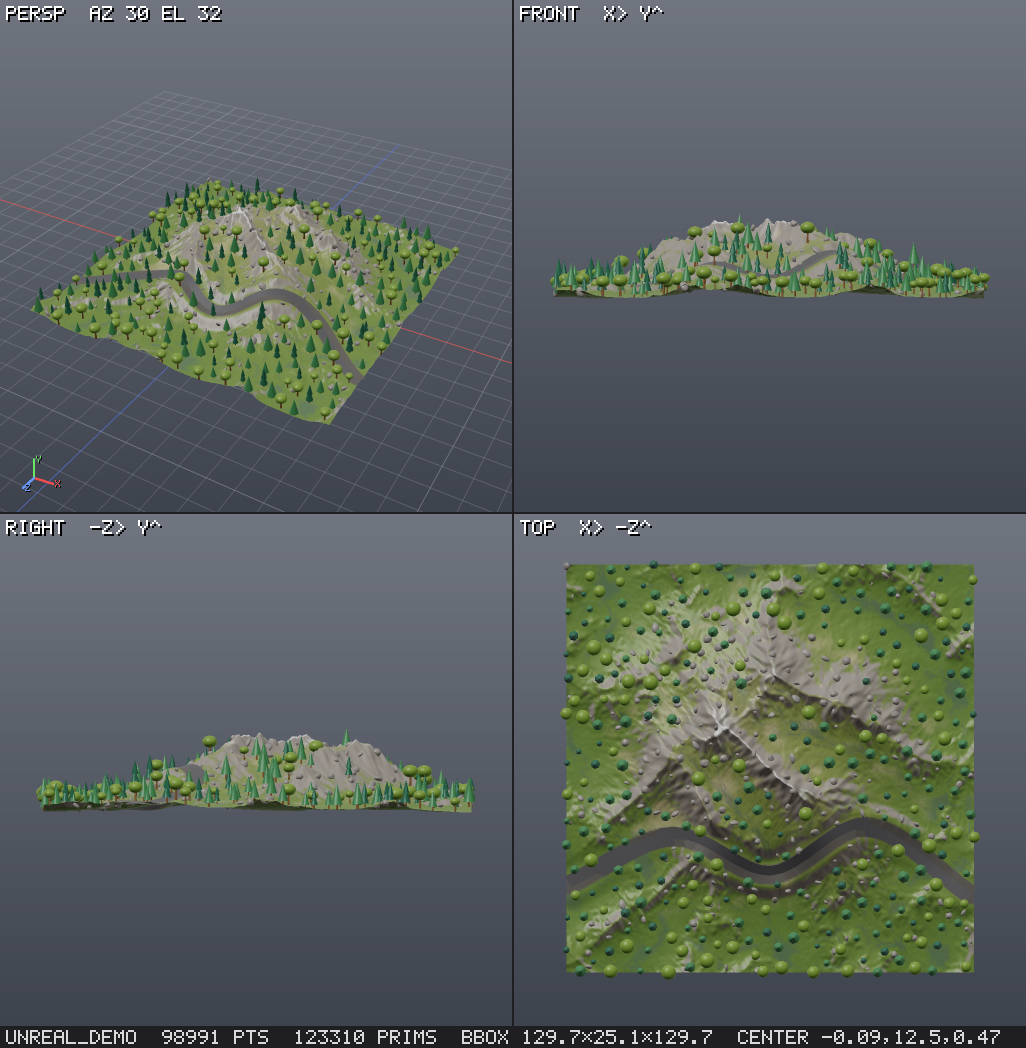
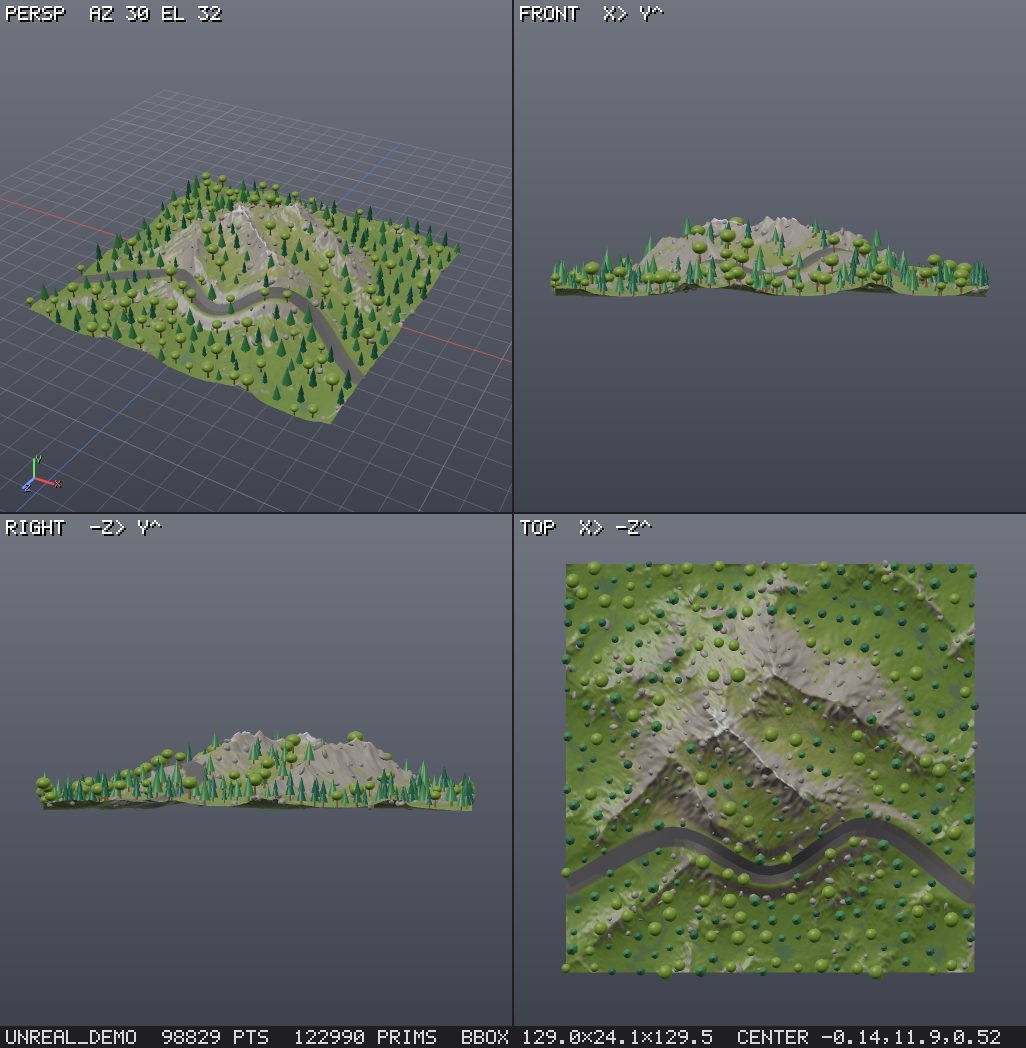
heightfield_erode: droplet settings in metres
The droplet settings counted in samples (erosion_radius, max_lifetime),
per sample (rain_density) and per droplet step, one cell long, so the
same params eroded an 8 m preview of a map very differently from the
2 m map. They are now in metres and converted to the kernels' samples
inside the node:

- rain_density: droplets per m² per iteration (default 2; at most one
  per sample, with a warning).
- erosion_radius: brush radius in metres (default 0.3; at least one
  sample, at most 64 samples, with a warning).
- max_distance (replaces max_lifetime): how far a droplet travels, in
  metres (default 3).
- erosion_rate, deposition_rate, evaporation, inertia, gravity and
  thermal_rate act per droplet step of a third of erosion_radius, and
  sediment_capacity is a volume in those steps cubed. On a cell of r
  steps the fractions compound (1 - (1 - f)^r), gravity scales by r,
  capacity by 1/r³ and the thermal rate by 1/r, so what a droplet
  carries and how far the terrain relaxes stay the same in metres.

core/erosion.ts dropletParams does the conversion; the kernels (TS and
Rust/WASM) are unchanged. At the defaults on 0.1 m cells it gives the
old kernel params bit for bit, so graphs at 0.1 m keep their results:
the heightfield_erode, terrain_erosion and erosion_models goldens are
unchanged, and particles keeps its result with the old settings in
metres (0.6 m, 6 m, 0.5 per m² at 0.2 m cells). unreal_demo uses
erosion_radius 1 m, max_distance 15 m, rain_density 0.08 and
[…]

diff --git a/src/nodes/heightfield.ts b/src/nodes/heightfield.ts
@@ -8,8 +8,8 @@ import {
   Heightfield, MAX_SAMPLES, asHeightfield, bilinear, blurGrid, cropHeightfield, curvesOf, distanceTransform, heightfieldToMesh,
   heightfieldsOf, isHeightfield, layerStats, rasterizeMesh, slopeLayer, smoothstep, splatSegment, transformHeightfield,
 } from '../core/heightfield.ts';
-import { erodeStep, makeErosionField } from '../core/erosion.ts';
-import type { ErosionParams } from '../core/erosion.ts';
+import { dropletParams, erodeStep, makeErosionField } from '../core/erosion.ts';
+import type { DropletSettings } from '../core/erosion.ts';
 import { fractal, makeNoise, makeWarp } from '../core/noise.ts';
 import { rng } from '../core/random.ts';
 import { decodePNG, pngChannel } from '../io/png-decode.ts';
@@ -1024,7 +1024,7 @@ defineNode({
   type: 'heightfield_erode',
   category: 'heightfield',
   summary: 'Droplet or virtual-pipe hydraulic erosion with thermal talus relaxation and optional stream-power incision.',
-  description: 'Houdini: HeightField Erode. The default droplet/js path retains the original seeded droplet model and outputs. Droplets erode below carrying capacity and deposit as they slow or dry; each iteration also relaxes slopes above thermal_talus_angle. Kernel droplet uses the same parameters and layer meanings. Pipe uses four-direction shallow-water flux, velocity-based carrying capacity, sediment transport, rainfall and evaporation, with a CFL-limited timestep; stream_power adds K × drainage^m × slope^n incision. Pipe methods require backend kernel, or auto after the kernels have been loaded. Closed boundaries conserve terrain material. Open boundaries let water leave; droplet also loses carried sediment, while pipe retains sediment and settles it on return. Layers: height, nonnegative deposited sediment and thermal debris (added to existing layers), flow (0..1). Droplet water is a normalised resting-water mask; pipe water is remaining depth in metres. An existing lake layer supplies initial standing water to pipe/stream_power; lake is updated to the same final depth within its original footprint, while water includes every wet sample. Kernel backends also write cumulative wear (eroded depth). Pipe rainfall is uniform and deterministic; its seed is reserved for API consistency. Use flow/sediment/debris with heightfield_mask_by_feature or heightfield_to_mesh color terrain.',
+  description: 'Houdini: HeightField Erode. method droplet (the default; backend js, or kernel for the same model in WASM): seeded droplets erode below their carrying capacity and deposit as they slow or dry; each iteration also relaxes slopes above thermal_talus_angle. Droplet settings are in metres, so the same params erode the same terrain alike at any spacing (an 8 m preview like the 2 m map, finer detail aside): rain_density counts droplets per m² per iteration, max_distance and erosion_radius are metres, and erosion_rate, deposition_rate, evaporation, inertia, gravity and thermal_rate act per droplet step of a third of erosion_radius, with sediment_capacity a volume in those steps cubed; the node converts them to the field\'s cells (a cell of a third of the radius takes them as given: the defaults at 0.1 m). For a terrain λ times larger keep the rest and multiply erosion_radius and max_distance by λ and divide rain_density by λ² (a 4 km map at 2 m: erosion_radius 6, max_distance 60, rain_density 0.005). Erosion is not local: droplets and water cross tile borders and start at seeded positions over the whole field, so a tile with a margin erodes like the same area of the map only statistically. Pipe uses four-direction shallow-water flux, velocity-based carrying capacity, sediment transport, rainfall and evaporation, with a CFL-limited timestep; stream_power adds K × drainage^m × slope^n incision. Pipe methods require backend kernel, or auto after the kernels have been loaded; their rates are per second, and their iterations are time steps that the cell size limits (CFL), so finer fields simulate less time per iteration unless time_step is below the limit of every spacing. Closed boundaries conserve terrain material. Open boundaries let water leave; droplet also loses carried sediment, while pipe retains sediment and settles it on return. Layers: height, nonnegative deposited sediment and thermal debris (added to existing layers), flow (0..1, normalised over the field: droplet on a log scale against its mean and 99th percentile, pipe by its maximum). Droplet water is a normalised resting-water mask; pipe water is remaining depth in metres. An existing lake layer supplies initial standing water to pipe/stream_power; lake is updated to the same final depth within its original footprint, while water includes every wet sample. Kernel backends also write cumulative wear (eroded depth). Pipe rainfall is uniform and deterministic; its seed is reserved for API consistency. Use flow/sediment/debris with heightfield_mask_by_feature or heightfield_to_mesh color terrain.',
   aliases: ['hf_erode', 'erosion', 'heightfield_erosion', 'heightfield_hydro_erode'],
   inputs: [{ name: 'heightfield', desc: 'geometry with a heightfield' }],
   params: {
@@ -1032,19 +1032,19 @@ defineNode({
     backend: { type: 'enum', options: ['auto', 'kernel', 'js'], default: 'js', desc: 'js preserves the original droplet result; kernel loads WASM; auto uses WASM only if already loaded, otherwise js (pipe methods require WASM)' },
     iterations: { type: 'int', default: 50, min: 0, max: 5000, desc: 'rain passes; pipe methods use thermal_interval to schedule thermal passes', aliases: ['iter', 'steps'] },
     seed: P.seed(),
-    erosion_rate: { type: 'float', default: 0.3, min: 0, max: 1, desc: 'fraction of free capacity picked up per droplet step, or erosion rate per second for pipe', aliases: ['erodability', 'erode_rate', 'erosion'] },
-    deposition_rate: { type: 'float', default: 0.3, min: 0, max: 1, desc: 'fraction of excess sediment deposited per droplet step, or deposition rate per second for pipe', aliases: ['deposit_rate', 'deposition'] },
-    sediment_capacity: { type: 'float', default: 1, min: 0, desc: 'how much sediment fast, steep water can carry (higher = deeper gullies, bigger fans)', aliases: ['capacity'] },
-    evaporation: { type: 'float', default: 0.1, min: 0, max: 1, desc: 'water fraction lost per droplet step, or evaporation rate per second for pipe', aliases: ['evaporation_rate'] },
+    erosion_rate: { type: 'float', default: 0.3, min: 0, max: 1, desc: 'droplet: fraction of the free capacity picked up per droplet step (a third of erosion_radius); pipe: erosion rate per second', aliases: ['erodability', 'erode_rate', 'erosion'] },
+    deposition_rate: { type: 'float', default: 0.3, min: 0, max: 1, desc: 'droplet: fraction of the excess sediment dropped per droplet step; pipe: deposition rate per second', aliases: ['deposit_rate', 'deposition'] },
+    sediment_capacity: { type: 'float', default: 1, min: 0, desc: 'how much sediment fast, steep water can carry (higher = deeper gullies, bigger fans); droplet: a volume in droplet steps cubed, the same in metres at any spacing', aliases: ['capacity'] },
+    evaporation: { type: 'float', default: 0.1, min: 0, max: 1, desc: 'droplet: water fraction lost per droplet step; pipe: evaporation rate per second', aliases: ['evaporation_rate'] },
     rain_amount: { type: 'float', default: 1, min: 0, desc: 'water per droplet; pipe rainfall depth in metres per second, multiplied by rain_layer if set', aliases: ['rain', 'water_amount'] },
-    rain_density: { type: 'float', default: 0.02, min: 0, max: 1, desc: 'droplet only: droplets per sample per iteration', aliases: ['droplets'] },
-    inertia: { type: 'float', default: 0.1, min: 0, max: 1, desc: 'droplet only: momentum, 0 = always steepest descent, higher = smoother, longer channels' },
-    gravity: { type: 'float', default: 4, min: 0, desc: 'acceleration on slopes' },
+    rain_density: { type: 'float', default: 2, min: 0, desc: 'droplet only: droplets per square metre per iteration (at most one per sample: coarse fields cap it)', aliases: ['droplets'] },
+    inertia: { type: 'float', default: 0.1, min: 0, max: 1, desc: 'droplet only: share of its heading a droplet keeps per droplet step; 0 = always steepest descent, higher = smoother, longer channels' },
+    gravity: { type: 'float', default: 4, min: 0, desc: 'acceleration on slopes (droplet: speed² gained per droplet step of drop at slope 1; pipe: m/s²)' },
     min_slope: { type: 'float', default: 0.01, min: 0, desc: 'droplet only: minimum capacity (as a slope), keeps flats eroding a little' },
-    erosion_radius: { type: 'int', default: 3, min: 1, max: 8, desc: 'droplet only: erosion footprint radius (samples)', aliases: ['brush_radius'] },
-    max_lifetime: { type: 'int', default: 30, min: 1, max: 256, desc: 'droplet only: maximum steps per particle', aliases: ['lifetime', 'max_steps'] },
+    erosion_radius: { type: 'float', default: 0.3, min: 0.001, desc: 'droplet only: erosion brush radius in metres (about a gully\'s half-width; at least one sample); a third of it is the droplet step the per-step settings refer to', aliases: ['brush_radius'] },
+    max_distance: { type: 'float', default: 3, min: 0, desc: 'droplet only: how far a droplet travels at most (metres; at least one step)', aliases: ['travel_distance', 'droplet_distance'] },
     thermal_talus_angle: { type: 'float', default: 40, min: 0, max: 89, desc: 'thermal: angle of repose in degrees (steeper slopes shed material)', aliases: ['talus_angle', 'repose_angle', 'cut_angle'] },
-    thermal_rate: { type: 'float', default: 0.1, min: 0, max: 1, desc: 'thermal: fraction of the excess moved per thermal pass (0 = no thermal erosion)', aliases: ['thermal'] },
+    thermal_rate: { type: 'float', default: 0.1, min: 0, max: 1, desc: 'thermal: fraction of the excess moved per thermal pass (droplet: on cells of a droplet step, scaled to the spacing; 0 = no thermal erosion)', aliases: ['thermal'] },
     thermal_interval: { type: 'int', default: 1, min: 1, max: 10000, desc: 'pipe/stream_power only: thermal pass every N iterations and on the final iteration; skips intervening relaxations without multiplying thermal_rate (1 preserves the default result)' },
     hardness_layer: { type: 'string', default: '', desc: 'optional 0..1 layer: 1 = rock that does not erode' },
     freeze_layer: { type: 'string', default: '', desc: 'optional 0..1 layer: 1 = frozen (unchanged), e.g. under buildings or roads' },
@@ -1072,20 +1072,27 @@ defineNode({
     let droplets = 0;
     // the time limit of long-running nodes: checked every iteration of the JS path; a big kernel run goes to a pool
     // worker that the limit can stop
-    const budget = simBudget(ctx, 'fewer iterations, a lower rain_density or max_lifetime, or a coarser field (heightfield_resample); or raise the limit');
+    const budget = simBudget(ctx, 'fewer iterations, a lower rain_density or max_distance, or a coarser field (heightfield_resample); or raise the limit');
+    // droplet settings in metres; dropletParams converts them to the kernels' per-sample params for each field's cells
+    const settings: DropletSettings = {
+      rainDensity: p.rain_density, rainAmount: p.rain_amount, erosionRate: p.erosion_rate, depositionRate: p.deposition_rate,
+      sedimentCapacity: p.sediment_capacity, evaporation: p.evaporation, inertia: p.inertia, gravity: p.gravity,
+      minSlope: p.min_slope, erosionRadius: p.erosion_radius, maxDistance: p.max_distance,
+      talusAngle: p.thermal_talus_angle, thermalRate: p.thermal_rate, boundary: p.boundary,
+    };
+    const m = (x: number) => +x.toPrecision(4);
     const out = await eachFieldAsync(ctx, async (hf) => {
       const H = layerOf(hf, 'height', ctx.type);
       const hard = maskOf(hf, p.hardness_layer, ctx.type), frz = maskOf(hf, p.freeze_layer, ctx.type);
+      const { params, limited } = dropletParams(settings, hf.cellSize);
       if (p.method === 'droplet') {
-        const work = hf.count * p.rain_density * p.iterations * p.max_lifetime;
-        if (work > 4e9) throw new NodeError(`${ctx.type}: ~${(work / 1e9).toFixed(1)}G droplet steps is too much; lower iterations, rain_density or max_lifetime, or resample the field`);
+        const c = hf.cellSize, on = `on "${hf.name}" (${m(c)} m cells)`;
+        if (limited.radius) ctx.warn(`erosion_radius ${m(p.erosion_radius)} m is more than 64 samples ${on}: the brush uses 64 samples (${m(64 * c)} m)`);
+        if (limited.steps) ctx.warn(`max_distance ${m(p.max_distance)} m is more than 4096 steps ${on}: droplets stop after ${m(4096 * c)} m`);
+        if (limited.density) ctx.warn(`rain_density ${m(p.rain_density)} per m² is more than one droplet per sample ${on}: using one per sample (${m(1 / (c * c))} per m²)`);
+        const work = hf.count * params.rainDensity * p.iterations * params.maxLifetime;
+        if (work > 4e9) throw new NodeError(`${ctx.type}: ~${(work / 1e9).toFixed(1)}G droplet steps is too much; lower iterations, rain_density or max_distance, or resample the field`);
       }
-      const params: ErosionParams = {
-        rainDensity: p.rain_density, rainAmount: p.rain_amount, erosionRate: p.erosion_rate, depositionRate: p.deposition_rate,
-        sedimentCapacity: p.sediment_capacity, evaporation: p.evaporation, inertia: p.inertia, gravity: p.gravity,
-        minSlope: p.min_slope, erosionRadius: p.erosion_radius, maxLifetime: p.max_lifetime,
-        talusAngle: p.thermal_talus_angle, thermalRate: p.thermal_rate, boundary: p.boundary,
-      };
       if (kernels) {
         const grid = { w: hf.width, h: hf.height, cell: hf.cellSize, seed: p.seed };
         const result: ErosionResult = await wasmCallUnderBudget(ctx, kernels, p.method === 'droplet'
@@ -1114,14 +1121,14 @@ defineNode({
           for (let k = 0; k < lake.length; k++) if (previous[k] > 0) lake[k] = result.water[k];
           hf.layers.set('lake', lake);
         }
-        if (p.method === 'droplet') droplets += Math.round(p.rain_density * hf.count) * p.iterations;
+        if (p.method === 'droplet') droplets += Math.round(params.rainDensity * hf.count) * p.iterations;
         return;
       }
       const field = makeErosionField(hf.width, hf.height, hf.cellSize, H, hard, frz);
       const r = rng(p.seed);
       // a stopped cook stops between iterations
       for (let it = 0; it < p.iterations; it++) { budget.check(); await ctx.checkpoint(); erodeStep(field, params, r); }
-      droplets += Math.round(p.rain_density * hf.count) * p.iterations;
+      droplets += Math.round(params.rainDensity * hf.count) * p.iterations;
       hf.layers.set('height', Float32Array.from(field.h));
       for (const [name, delta] of [['sediment', field.sediment], ['debris', field.debris]] as const) {
         const prev = hf.layer(name), o = new Float32Array(hf.count);

diff --git a/test/heightfield.ts b/test/heightfield.ts
@@ -10,7 +10,7 @@ import { Engine } from '../src/graph/engine.ts';
 import { createNodeHost } from '../src/host/node.ts';
 import { Geometry } from '../src/core/geometry.ts';
 import { Heightfield, blurGrid, distanceTransform, heightfieldsOf } from '../src/core/heightfield.ts';
-import { DEFAULT_EROSION, erodeStep, makeErosionField } from '../src/core/erosion.ts';
+import { DEFAULT_EROSION, dropletParams, erodeStep, makeErosionField } from '../src/core/erosion.ts';
 import { fractal, makeNoise, makeWarp } from '../src/core/noise.ts';
 import { rng } from '../src/core/random.ts';
 import { decodePNG, inflateZlib, pngChannel } from '../src/io/png-decode.ts';
@@ -412,6 +412,53 @@ section('erosion');
   check(frozenOk, 'freeze_layer: frozen samples are never eroded');
   const hard = await field({ ...rough, f: { type: 'heightfield_layer', in: ['n'], params: { layer: 'rock', operation: 'fill', value: 1 } }, e: { type: 'heightfield_erode', in: ['f'], params: { iterations: 10, hardness_layer: 'rock', thermal_rate: 0 } } }, 'e');
   check(sum(hard.layer('sediment')!) < sum((await run({ iterations: 10, thermal_rate: 0 })).layer('sediment')!) * 0.2, 'hardness 1 stops hydraulic erosion');
+
+  // droplet settings are in metres: dropletParams turns them into the kernels' per-sample params
+  const metres = { rainDensity: 2, rainAmount: 1, erosionRate: 0.3, depositionRate: 0.3, sedimentCapacity: 1, evaporation: 0.1, inertia: 0.1, gravity: 4, minSlope: 0.01, erosionRadius: 0.3, maxDistance: 3, talusAngle: 40, thermalRate: 0.1, boundary: 'closed' as const };
+  const at01 = dropletParams(metres, 0.1).params;
+  check(Object.entries(DEFAULT_EROSION).every(([k, v]) => k === 'rainDensity' ? Math.abs(at01.rainDensity - v) < 1e-15 : (at01 as any)[k] === v), 'the default settings in metres at 0.1 m cells are the kernel defaults (3-sample brush, 30 steps, 0.02 droplets per sample) bit for bit');
+  const at04 = dropletParams(metres, 0.4).params;
+  check(at04.erosionRadius === 1 && at04.maxLifetime === 8 && Math.abs(at04.rainDensity - 0.32) < 1e-12 && Math.abs(at04.erosionRate - (1 - 0.7 ** 4)) < 1e-12 && Math.abs(at04.sedimentCapacity - 1 / 64) < 1e-12 && at04.gravity === 16 && Math.abs(at04.thermalRate - 0.025) < 1e-12,
+    'at 0.4 m cells (four droplet steps per cell): brush one sample, 8 steps, 0.32 droplets per sample, per-step fractions compounded, capacity ÷ 64, gravity × 4, thermal rate ÷ 4');
+  const capped = dropletParams({ ...metres, rainDensity: 1000, erosionRadius: 30, maxDistance: 1000 }, 0.1);
+  check(capped.params.rainDensity === 1 && capped.params.erosionRadius === 64 && capped.params.maxLifetime === 4096 && capped.limited.density === 1 && capped.limited.radius === 64 && capped.limited.steps === 4096, 'kernel limits: one droplet per sample, a 64-sample brush, 4096 steps (reported)');
+  const dense = await engine.cook({ nodes: { hf: { type: 'heightfield', params: { size: [8, 8], resolution: 0.5 } }, n: { type: 'heightfield_noise', in: ['hf'], params: { amplitude: 1 } }, e: { type: 'heightfield_erode', in: ['n'], params: { iterations: 2, rain_density: 10 } } }, output: 'e' });
+  check(dense.ok && dense.warnings.some((w) => /rain_density 10 per m² is more than one droplet per sample .*using one per sample \(4 per m²\)/.test(w.message)), 'a rain_density above one droplet per sample warns and uses one per sample');
+
+  // the same terrain at 0.4, 0.2 and 0.1 m spacing erodes alike. Statistics: eroded volume per m², and gully depth as
+  // the 99th percentile of the lowering on the coarse 0.4 m grid (finer results averaged over each coarse cell). Why
+  // the tolerances: a coarser grid cannot resolve the terrain's smallest slopes, so it erodes a little less; its
+  // deposits spread over 2 × 2 of its cells and its brush cannot be narrower than one cell (0.4 m against 0.3 m); its
+  // droplets start at other random positions. Measured: about 5 % apart at twice the spacing, 10–20 % at four times;
+  // the old per-sample settings (the defaults read as 3 samples, 30 steps, 0.02 droplets per sample) erode twice as
+  // much at 0.4 m.
+  const TERRAIN = (resolution: number): Record<string, NodeSpec> => ({
+    hf: { type: 'heightfield', params: { size: [25.6, 25.6], resolution } },
+    massif: { type: 'heightfield_layer', in: ['hf'], params: { expression: '2.2 * (1 - smoothstep(1, 11, sqrt(x * x + z * z)))' } },
+    ridges: { type: 'heightfield_noise', in: ['massif'], params: { fractal: 'ridged', amplitude: 2.4, element_size: 8, octaves: 4, range: 'positive', seed: 11 } },
+    detail: { type: 'heightfield_noise', in: ['ridges'], params: { amplitude: 0.35, element_size: 2.5, octaves: 2, seed: 5 } },
+    ground: { type: 'heightfield_layer', in: ['detail'], params: { expression: 'height * (0.35 + 0.65 * (1 - smoothstep(3, 10.5, sqrt(x * x + z * z))))' } },
+  });
+  const erosionStats = async (resolution: number, params: Record<string, any> = {}) => {
+    const nodes = { ...TERRAIN(resolution), e: { type: 'heightfield_erode', in: ['ground'], params: { iterations: 40, seed: 1, ...params } } };
+    const before = await field(nodes, 'ground'), after = await field(nodes, 'e');
+    const n = before.width, c = before.cellSize, h0 = before.layer('height')!, h1 = after.layer('height')!;
+    const depth = Float64Array.from(h0, (v, k) => v - h1[k]);
+    let eroded = 0;
+    for (const d of depth) if (d > 0) eroded += d;
+    const ratio = 0.4 / c, avg = ratio > 1 ? blurGrid(depth, n, n, ratio / 2, 'box') : depth, coarse: number[] = [];
+    for (let j = 0; j <= 64; j++) for (let i = 0; i <= 64; i++) coarse.push(avg[Math.round(j * ratio) * n + Math.round(i * ratio)]);
+    coarse.sort((a, b) => a - b);
+    return { volume: (eroded * c * c) / (25.6 * 25.6), gully: coarse[Math.floor(0.99 * coarse.length)] };
+  };
+  const s1 = await erosionStats(0.1), s2 = await erosionStats(0.2), s4 = await erosionStats(0.4);
+  const old4 = await erosionStats(0.4, { erosion_radius: 1.2, max_distance: 12, rain_density: 0.125 });
+  const pct = (a: number, b: number) => `${a / b >= 1 ? '+' : ''}${((a / b - 1) * 100).toFixed(0)} %`;
+  console.log(`     eroded volume per m²: ${s1.volume.toFixed(4)} m at 0.1 m, ${s2.volume.toFixed(4)} at 0.2 m, ${s4.volume.toFixed(4)} at 0.4 m (old per-sample settings at 0.4 m: ${old4.volume.toFixed(4)}); gully depth ${s1.gully.toFixed(3)}, ${s2.gully.toFixed(3)}, ${s4.gully.toFixed(3)} m (old ${old4.gully.toFixed(3)})`);
+  const within = (a: number, b: number, t: number) => a / b > 1 - t && a / b < 1 + t;
+  check(within(s2.volume, s1.volume, 0.15) && within(s2.gully, s1.gully, 0.15), `the same settings at 0.2 and 0.1 m erode alike within 15 % (volume ${pct(s2.volume, s1.volume)}, gully depth ${pct(s2.gully, s1.gully)})`);
+  check(within(s4.volume, s1.volume, 0.3) && within(s4.gully, s1.gully, 0.3), `… at 0.4 and 0.1 m within 30 % (volume ${pct(s4.volume, s1.volume)}, gully depth ${pct(s4.gully, s1.gully)})`);
+  check(old4.volume / s1.volume > 1.6 && old4.gully / s1.gully > 1.6, `the old per-sample settings did not: at 0.4 m they erode ${pct(old4.volume, s1.volume)} volume, gullies ${pct(old4.gully, s1.gully)}`);
 
   // the kernel interface directly, and its speed target: 512² × 100 iterations
   const N = 512, cell = 0.1;

diff --git a/src/core/erosion.ts b/src/core/erosion.ts
@@ -11,7 +11,8 @@
 // One iteration = erodeStep(field, params, rng): a rain pass of rain_density × samples droplets, then one thermal
 // pass. It reads and writes plain typed arrays only, so a native/WASM kernel can replace it: same arrays in, the
 // same arrays updated in place, the same parameter meanings (see ErosionField / ErosionParams). The rng is only
-// used to draw droplet start positions and the tile order.
+// used to draw droplet start positions and the tile order. ErosionParams count in samples (a droplet moves one cell
+// per step); dropletParams converts heightfield_erode's settings in metres to them for a field's cell size.
 //
 // Performance: the droplet pass is bound by memory latency, so droplets run tile by tile (32 × 32 samples, tiles
 // in a random order per pass) and the net change is recorded once per pass instead of per write. The thermal pass
@@ -77,6 +78,62 @@ export const DEFAULT_EROSION: ErosionParams = {
   inertia: 0.1, gravity: 4, minSlope: 0.01, erosionRadius: 3, maxLifetime: 30, talusAngle: 40, thermalRate: 0.1,
   boundary: 'closed',
 };
+
+// ---------------------------------------------------------------- settings in metres
+
+/**
+ * Droplet erosion settings in world units (heightfield_erode's params): rain per square metre, lengths in metres, and
+ * per-step settings defined for a droplet step of erosionRadius / 3 metres. dropletParams turns them into the
+ * per-sample ErosionParams the kernels take for one cell size.
+ */
+export interface DropletSettings extends Omit<ErosionParams, 'rainDensity' | 'erosionRadius' | 'maxLifetime'> {
+  /** droplets per square metre per iteration */
+  rainDensity: number;
+  /** erosion brush radius in metres; a third of it is the droplet step the per-step settings refer to */
+  erosionRadius: number;
+  /** the farthest a droplet travels, in metres */
+  maxDistance: number;
+}
+
+/** The kernel limits dropletParams applied, each with the value it used (in samples). */
+export interface DropletLimits { radius?: number; steps?: number; density?: number }
+
+/**
+ * The per-sample ErosionParams that erode like `s` on a field with cells of `cell` metres, so the same settings give
+ * the same erosion in metres at any spacing (within what the coarser grid can resolve).
+ *
+ * The kernels move a droplet one cell per step and count in samples. The settings are defined for steps of
+ * step = erosionRadius / 3 metres (the default radius of three cells runs them as given), and a cell of `cell` metres
+ * is r = cell / step of those steps: the per-step fractions compound (f → 1 − (1 − f)^r, inertia i → i^r), the speed²
+ * gained on a slope grows with the drop (gravity × r), the sediment a droplet carries keeps its volume in metres
+ * (sediment capacity is a volume in cells³: ÷ r³), and a thermal pass moves the same height per iteration (rate ÷ r,
+ * at most 1). Counts become samples: the brush erosionRadius / cell samples (1..64), maxDistance / cell steps
+ * (1..4096) and rainDensity × cell² droplets per sample (at most 1); `limited` reports the limits that applied.
+ * Ratios within 1e-9 of a whole number are that number, so the defaults at 0.1 m cells give the kernel defaults bit
+ * for bit.
+ */
+export function dropletParams(s: DropletSettings, cell: number): { params: ErosionParams; limited: DropletLimits } {
+  const snap = (x: number) => (Math.abs(x - Math.round(x)) < 1e-9 ? Math.round(x) : x);
+  const unit = (x: number) => Math.min(1, Math.max(0, x));
+  const r = snap(cell / (s.erosionRadius / 3));
+  const perStep = (f: number) => (r === 1 ? f : 1 - Math.pow(1 - unit(f), r));
+  const limited: DropletLimits = {};
+  let radius = Math.max(1, snap(s.erosionRadius / cell));
+  if (radius > 64) radius = limited.radius = 64;
+  let steps = Math.max(1, Math.round(s.maxDistance / cell));
+  if (steps > 4096) steps = limited.steps = 4096;
+  let density = s.rainDensity * cell * cell;
+  if (density > 1) density = limited.density = 1;
+  const params: ErosionParams = {
+    rainDensity: density, rainAmount: s.rainAmount,
+    erosionRate: perStep(s.erosionRate), depositionRate: perStep(s.depositionRate), evaporation: perStep(s.evaporation),
+    sedimentCapacity: Math.min(1e6, s.sedimentCapacity / (r * r * r)),
+    inertia: r === 1 ? s.inertia : Math.pow(unit(s.inertia), r),
+    gravity: Math.min(1e6, s.gravity * r), minSlope: s.minSlope, erosionRadius: radius, maxLifetime: steps,
+    talusAngle: s.talusAngle, thermalRate: Math.min(1, s.thermalRate / r), boundary: s.boundary,
+  };
+  return { params, limited };
+}
 
 /** A fresh field for erosion with zeroed accumulators (heights are copied). */
 export function makeErosionField(width: number, height: number, cellSize: number, h: ArrayLike<number>, hardness: Float32Array | null = null, freeze: Float32Array | null = null): ErosionField {

diff --git a/src/mcp/docs.ts b/src/mcp/docs.ts
@@ -437,13 +437,21 @@ TILES: a big map (4 × 4 km at 2 m = 2001² samples) is previewed and processed 
 MASKS: every mask node combines with the existing mask (mode replace/add/subtract/multiply/max/min): chain them,
   multiply = and, max = or. Most layer nodes take mask_layer to blend their effect by a mask.
   e.g. rocks on steep slopes off the road: mask_by_feature slope 33° → heightfield_layer {layer:"mask", expression:"mask * (1 - path)"}.
-EROSION: droplets (rain_density per sample per iteration, rain_amount, erosion_rate, deposition_rate, sediment_capacity,
-  evaporation, inertia, gravity, max_lifetime) + thermal (thermal_talus_angle, thermal_rate); hardness_layer (1 = rock),
-  freeze_layer (1 = untouched); boundary closed conserves material. Deterministic per seed. Cost ≈ samples ×
-  rain_density × iterations × 30 steps (512² × 100 iterations ≈ 2–3 s). Stronger: more iterations or sediment_capacity.
+EROSION: droplets in metres, so the same params erode alike at any spacing (an 8 m preview like the 2 m map, finer
+  detail aside): rain_density droplets per m² per iteration, max_distance metres a droplet travels, erosion_radius the
+  brush radius in metres (about a gully's half-width). erosion_rate, deposition_rate, evaporation, inertia, gravity and
+  thermal_rate act per droplet step of erosion_radius / 3 and sediment_capacity is a volume in those steps cubed; the
+  node converts them to the field's cells (cells of erosion_radius / 3 take them as given: the defaults at 0.1 m).
+  Scale: for a terrain λ times larger multiply erosion_radius and max_distance by λ and divide rain_density by λ², the
+  rest unchanged (a 4 km map at 2 m: erosion_radius 6, max_distance 60, rain_density 0.005). Thermal:
+  thermal_talus_angle, thermal_rate; hardness_layer (1 = rock), freeze_layer (1 = untouched); boundary closed conserves
+  material. Deterministic per seed. Cost ≈ rain_density × area × iterations × max_distance / cell droplet steps
+  (512² × 100 iterations at the defaults ≈ 2–3 s). Stronger: more iterations, rain_density or sediment_capacity. Not
+  local: a tile erodes like the same area of the map only statistically (see TILES).
   method droplet / backend js is the unchanged default. backend kernel loads WASM; auto uses an already loaded
   kernel or falls back to js. method pipe and stream_power require the kernel. Pipe uses virtual pipes, CFL-limited
-  time_step (0 = automatic), rain_amount in metres/second, optional rain_layer multiplier, evaporation and thermal
+  time_step (0 = automatic, shorter on finer cells; a time_step below the limit of every spacing simulates the same
+  time per iteration), rain_amount in metres/second, optional rain_layer multiplier, evaporation and thermal
   talus relaxation. stream_power adds stream_power_k * drainage^stream_power_m * slope^stream_power_n incision.
   Kernel erosion also writes wear (cumulative eroded depth); pipe water is remaining water depth in metres.
   heightfield_flow {method:"dinf", log_scale:true} writes drainage and direction without erosion: drainage is

diff --git a/docs/nodes.md b/docs/nodes.md
@@ -7167,7 +7167,7 @@ category: `heightfield` · aliases: `hf_erode`, `erosion`, `heightfield_erosion`
 
 Droplet or virtual-pipe hydraulic erosion with thermal talus relaxation and optional stream-power incision.
 
-Houdini: HeightField Erode. The default droplet/js path retains the original seeded droplet model and outputs. Droplets erode below carrying capacity and deposit as they slow or dry; each iteration also relaxes slopes above thermal_talus_angle. Kernel droplet uses the same parameters and layer meanings. Pipe uses four-direction shallow-water flux, velocity-based carrying capacity, sediment transport, rainfall and evaporation, with a CFL-limited timestep; stream_power adds K × drainage^m × slope^n incision. Pipe methods require backend kernel, or auto after the kernels have been loaded. Closed boundaries conserve terrain material. Open boundaries let water leave; droplet also loses carried sediment, while pipe retains sediment and settles it on return. Layers: height, nonnegative deposited sediment and thermal debris (added to existing layers), flow (0..1). Droplet water is a normalised resting-water mask; pipe water is remaining depth in metres. An existing lake layer supplies initial standing water to pipe/stream_power; lake is updated to the same final depth within its original footprint, while water includes every wet sample. Kernel backends also write cumulative wear (eroded depth). Pipe rainfall is uniform and deterministic; its seed is reserved for API consistency. Use flow/sediment/debris with heightfield_mask_by_feature or heightfield_to_mesh color terrain.
+Houdini: HeightField Erode. method droplet (the default; backend js, or kernel for the same model in WASM): seeded droplets erode below their carrying capacity and deposit as they slow or dry; each iteration also relaxes slopes above thermal_talus_angle. Droplet settings are in metres, so the same params erode the same terrain alike at any spacing (an 8 m preview like the 2 m map, finer detail aside): rain_density counts droplets per m² per iteration, max_distance and erosion_radius are metres, and erosion_rate, deposition_rate, evaporation, inertia, gravity and thermal_rate act per droplet step of a third of erosion_radius, with sediment_capacity a volume in those steps cubed; the node converts them to the field's cells (a cell of a third of the radius takes them as given: the defaults at 0.1 m). For a terrain λ times larger keep the rest and multiply erosion_radius and max_distance by λ and divide rain_density by λ² (a 4 km map at 2 m: erosion_radius 6, max_distance 60, rain_density 0.005). Erosion is not local: droplets and water cross tile borders and start at seeded positions over the whole field, so a tile with a margin erodes like the same area of the map only statistically. Pipe uses four-direction shallow-water flux, velocity-based carrying capacity, sediment transport, rainfall and evaporation, with a CFL-limited timestep; stream_power adds K × drainage^m × slope^n incision. Pipe methods require backend kernel, or auto after the kernels have been loaded; their rates are per second, and their iterations are time steps that the cell size limits (CFL), so finer fields simulate less time per iteration unless time_step is below the limit of every spacing. Closed boundaries conserve terrain material. Open boundaries let water leave; droplet also loses carried sediment, while pipe retains sediment and settles it on return. Layers: height, nonnegative deposited sediment and thermal debris (added to existing layers), flow (0..1, normalised over the field: droplet on a log scale against its mean and 99th percentile, pipe by its maximum). Droplet water is a normalised resting-water mask; pipe water is remaining depth in metres. An existing lake layer supplies initial standing water to pipe/stream_power; lake is updated to the same final depth within its original footprint, while water includes every wet sample. Kernel backends also write cumulative wear (eroded depth). Pipe rainfall is uniform and deterministic; its seed is reserved for API consistency. Use flow/sediment/debris with heightfield_mask_by_feature or heightfield_to_mesh color terrain.
 
 **Inputs**
 
@@ -7183,19 +7183,19 @@ Houdini: HeightField Erode. The default droplet/js path retains the original see
 | `backend` | enum | `"js"` |  | `auto`, `kernel`, `js` |  | js preserves the original droplet result; kernel loads WASM; auto uses WASM only if already loaded, otherwise js (pipe methods require WASM) |
 | `iterations` | int | `50` | 0..5000 |  | `iter`, `steps` | rain passes; pipe methods use thermal_interval to schedule thermal passes |
 | `seed` | float | `0` |  |  |  | random seed |
-| `erosion_rate` | float | `0.3` | 0..1 |  | `erodability`, `erode_rate`, `erosion` | fraction of free capacity picked up per droplet step, or erosion rate per second for pipe |
-| `deposition_rate` | float | `0.3` | 0..1 |  | `deposit_rate`, `deposition` | fraction of excess sediment deposited per droplet step, or deposition rate per second for pipe |
-| `sediment_capacity` | float | `1` | 0.. |  | `capacity` | how much sediment fast, steep water can carry (higher = deeper gullies, bigger fans) |
-| `evaporation` | float | `0.1` | 0..1 |  | `evaporation_rate` | water fraction lost per droplet step, or evaporation rate per second for pipe |
+| `erosion_rate` | float | `0.3` | 0..1 |  | `erodability`, `erode_rate`, `erosion` | droplet: fraction of the free capacity picked up per droplet step (a third of erosion_radius); pipe: erosion rate per second |
+| `deposition_rate` | float | `0.3` | 0..1 |  | `deposit_rate`, `deposition` | droplet: fraction of the excess sediment dropped per droplet step; pipe: deposition rate per second |
+| `sediment_capacity` | float | `1` | 0.. |  | `capacity` | how much sediment fast, steep water can carry (higher = deeper gullies, bigger fans); droplet: a volume in droplet steps cubed, the same in metres at any spacing |
+| `evaporation` | float | `0.1` | 0..1 |  | `evaporation_rate` | droplet: water fraction lost per droplet step; pipe: evaporation rate per second |
 | `rain_amount` | float | `1` | 0.. |  | `rain`, `water_amount` | water per droplet; pipe rainfall depth in metres per second, multiplied by rain_layer if set |
-| `rain_density` | float | `0.02` | 0..1 |  | `droplets` | droplet only: droplets per sample per iteration |
-| `inertia` | float | `0.1` | 0..1 |  |  | droplet only: momentum, 0 = always steepest descent, higher = smoother, longer channels |
-| `gravity` | float | `4` | 0.. |  |  | acceleration on slopes |
+| `rain_density` | float | `2` | 0.. |  | `droplets` | droplet only: droplets per square metre per iteration (at most one per sample: coarse fields cap it) |
+| `inertia` | float | `0.1` | 0..1 |  |  | droplet only: share of its heading a droplet keeps per droplet step; 0 = always steepest descent, higher = smoother, longer channels |
+| `gravity` | float | `4` | 0.. |  |  | acceleration on slopes (droplet: speed² gained per droplet step of drop at slope 1; pipe: m/s²) |
 | `min_slope` | float | `0.01` | 0.. |  |  | droplet only: minimum capacity (as a slope), keeps flats eroding a little |
-| `erosion_radius` | int | `3` | 1..8 |  | `brush_radius` | droplet only: erosion footprint radius (samples) |
-| `max_lifetime` | int | `30` | 1..256 |  | `lifetime`, `max_steps` | droplet only: maximum steps per particle |
+| `erosion_radius` | float | `0.3` | 0.001.. |  | `brush_radius` | droplet only: erosion brush radius in metres (about a gully's half-width; at least one sample); a third of it is the droplet step the per-step settings refer to |
+| `max_distance` | float | `3` | 0.. |  | `travel_distance`, `droplet_distance` | droplet only: how far a droplet travels at most (metres; at least one step) |
 | `thermal_talus_angle` | float | `40` | 0..89 |  | `talus_angle`, `repose_angle`, `cut_angle` | thermal: angle of repose in degrees (steeper slopes shed material) |
-| `thermal_rate` | float | `0.1` | 0..1 |  | `thermal` | thermal: fraction of the excess moved per thermal pass (0 = no thermal erosion) |
+| `thermal_rate` | float | `0.1` | 0..1 |  | `thermal` | thermal: fraction of the excess moved per thermal pass (droplet: on cells of a droplet step, scaled to the spacing; 0 = no thermal erosion) |
 | `thermal_interval` | int | `1` | 1..10000 |  |  | pipe/stream_power only: thermal pass every N iterations and on the final iteration; skips intervening relaxations without multiplying thermal_rate (1 preserves the default result) |
 | `hardness_layer` | string | `""` |  |  |  | optional 0..1 layer: 1 = rock that does not erode |
 | `freeze_layer` | string | `""` |  |  |  | optional 0..1 layer: 1 = frozen (unchanged), e.g. under buildings or roads |

diff --git a/README.md b/README.md
@@ -445,7 +445,7 @@ below; `node test/shelf.ts` cooks every asset at its defaults and at the ends of
 | mcp | `node test/mcp.ts` | the MCP server end to end over stdio |
 | arrays | `node test/arrays.ts` | array attributes: storage, merge and builder rules, wrangle `f[]@`/`i[]@`/`s[]@` and helpers, `attrib_array`, JSON, inspect, fingerprints, every node type fed array attributes |
 | packed | `node test/packed.ts` | packed prims: model (clone, subsets, merge dedup, builder, bbox), pack/unpack round trips, packed copies equal real copies, transforms, auto-unpack, JSON/GLB/USD, render budget, every node type fed instances |
-| heightfield | `node test/heightfield.ts` | heightfields: the volume model, every heightfield node's behaviour (round trips, masks, crops and tiles that match the whole map, erosion determinism and mass conservation, roads, scattering), the erosion speed target (512² × 100 iterations), png16/r16/mask_png export through the PNG decoder, render/inspect hooks, MCP export |
+| heightfield | `node test/heightfield.ts` | heightfields: the volume model, every heightfield node's behaviour (round trips, masks, crops and tiles that match the whole map, erosion determinism and mass conservation, the same erosion settings at three spacings, roads, scattering), the erosion speed target (512² × 100 iterations), png16/r16/mask_png export through the PNG decoder, render/inspect hooks, MCP export |
 | pcg | `npm run test:pcg` | scatter v2 (density counts, density attribute and mask ratios, relaxation, exact min_distance, per-prim cap, emitted attributes, prim uv, seeds, legacy defaults), every mask feature and combine mode, attribute_from_map on generated 8/16-bit and RGB PNGs (projections, filters, wrap, file stamp), orient modes against surface normals and copy_to_points, points_along_curve arc spacing, cluster k-means/radius, prune overlap/density/expression/near geometry, copy_to_points variant weights and packed = real copies |
 | splines | `npm run test:splines` | Bezier against its closed form, a rational NURBS circle, de Boor = de Casteljau, arc length, closest point, exact Bezier ⇄ NURBS conversions, interpolation and fitting; spline prims through clone/merge/subsets/JSON; auto-conversion and its warning; every spline node's behaviour (fillet arcs, constant 3D offset along a helix, projection onto a plane and a heightfield, monotonic curveu); render and export; every node type fed spline prims |
 | shelf | `npm run test:shelf [-- filter]` | every shelf asset: typed, documented params; cooks at its defaults (cold cache, under 1 s), at both ends of every numeric range, with every enum option and flipped bool, and on its fixture curve or surface; `name` and `material` on every prim; pivot; promised watertightness; index, thumbnails and README table current; workspace override precedence; `assets` list / delete / fork |
